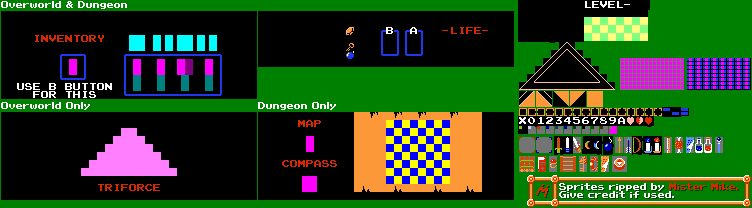
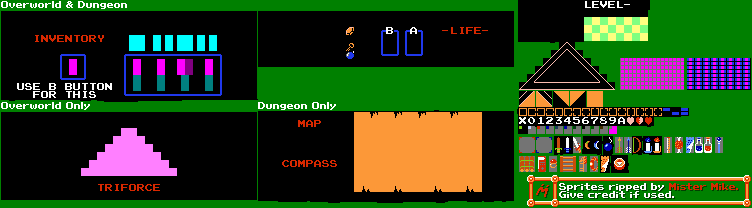
Cleaned Up Pause Screen and Fixed Compass

diff --git a/ZeldaProject/Sprint0/Sprint0/Link/LinkMinimap.cs b/ZeldaProject/Sprint0/Sprint0/Link/LinkMinimap.cs
@@ -14,7 +14,9 @@ namespace Sprint0
         private Rectangle roomMinimapSource;
         private Texture2D minimapTexture;
         private Boolean hasMap;
+        private Boolean hasCompass;
         private List<int> visitedRooms;
+        private int bossFrames;
 
         public LinkMinimap(Texture2D inventory)
         {
@@ -22,9 +24,11 @@ namespace Sprint0
             visitedRooms = new List<int>();
             for(int n = 0; n <= 16; n++) { visitedRooms.Add(n); }
             hasMap = false;
+            hasCompass = false;
             linkMinimapSource = new Rectangle(519, 126, 2, 2);
             linkMinimapDestination = new Rectangle(162, 175, 4 * GameConstants.SCALE, 4 * GameConstants.SCALE);
             roomMinimapSource = new Rectangle(663, 109, 6, 2);
+            bossFrames = 0;
         }
 
         public void Draw(SpriteBatch spriteBatch, int offset)
@@ -38,6 +42,21 @@ namespace Sprint0
                 }
             }
             spriteBatch.Draw(minimapTexture, tempLinkMinimapDestination, linkMinimapSource, Color.White);
+            if (hasCompass == true)
+            {
+                Rectangle bossRoomSourceRed = new Rectangle(537, 126, 2, 2);
+                Rectangle bossRoomSourceBlue = new Rectangle(555, 127, 2, 2);
+                Rectangle bossRoomDestination = new Rectangle(226, 103 + offset, 4 * GameConstants.SCALE, 4 * GameConstants.SCALE);
+                if (bossFrames % 2 == 0)
+                {
+                    spriteBatch.Draw(minimapTexture, bossRoomDestination, bossRoomSourceRed, Color.White);
+                }
+                else
+                {
+                    spriteBatch.Draw(minimapTexture, bossRoomDestination, bossRoomSourceBlue, Color.White);
+                }
+                bossFrames++;
+            }
         }
 
         public Rectangle getLinkMinimapSourceSprite()
@@ -48,6 +67,11 @@ namespace Sprint0
         public void setMinimap(Boolean val)
         {
             hasMap = val;
+        }
+
+        public void setCompass(Boolean val)
+        {
+            hasCompass = val;
         }
 
         public void setLinkMinimapDestinationSprite(int roomNumber, int offset)

diff --git a/ZeldaProject/Sprint0/Sprint0/Collision/LinkItemHandler.cs b/ZeldaProject/Sprint0/Sprint0/Collision/LinkItemHandler.cs
@@ -31,7 +31,7 @@ namespace Sprint0
                 else if (item is CompassItem)
                 {
                     collidedItems.Add(item);
-                    //player.GetLinkInventory().GetLinkMinimap().setCompass(true);
+                    player.GetLinkInventory().linkMinimap.setCompass(true);
                     player.GetLinkInventory().pauseScreen.setCompass(true);
                     Collision_soundEffects[7].Play();
                 }

diff --git a/ZeldaProject/Sprint0/Sprint0/Link/LinkPauseScreen.cs b/ZeldaProject/Sprint0/Sprint0/Link/LinkPauseScreen.cs
@@ -26,8 +26,8 @@ namespace Sprint0
             currentYOffset = 0;
             pauseTopSourceRectangle = new Rectangle(1, 12, 255, 87);
             pauseBottomSourceRectangle = new Rectangle(258, 113, 255, 87);
-            hasMap = true;
-            hasCompass = true;
+            hasMap = false;
+            hasCompass = false;
             bossFrames = 0;
         }
 
